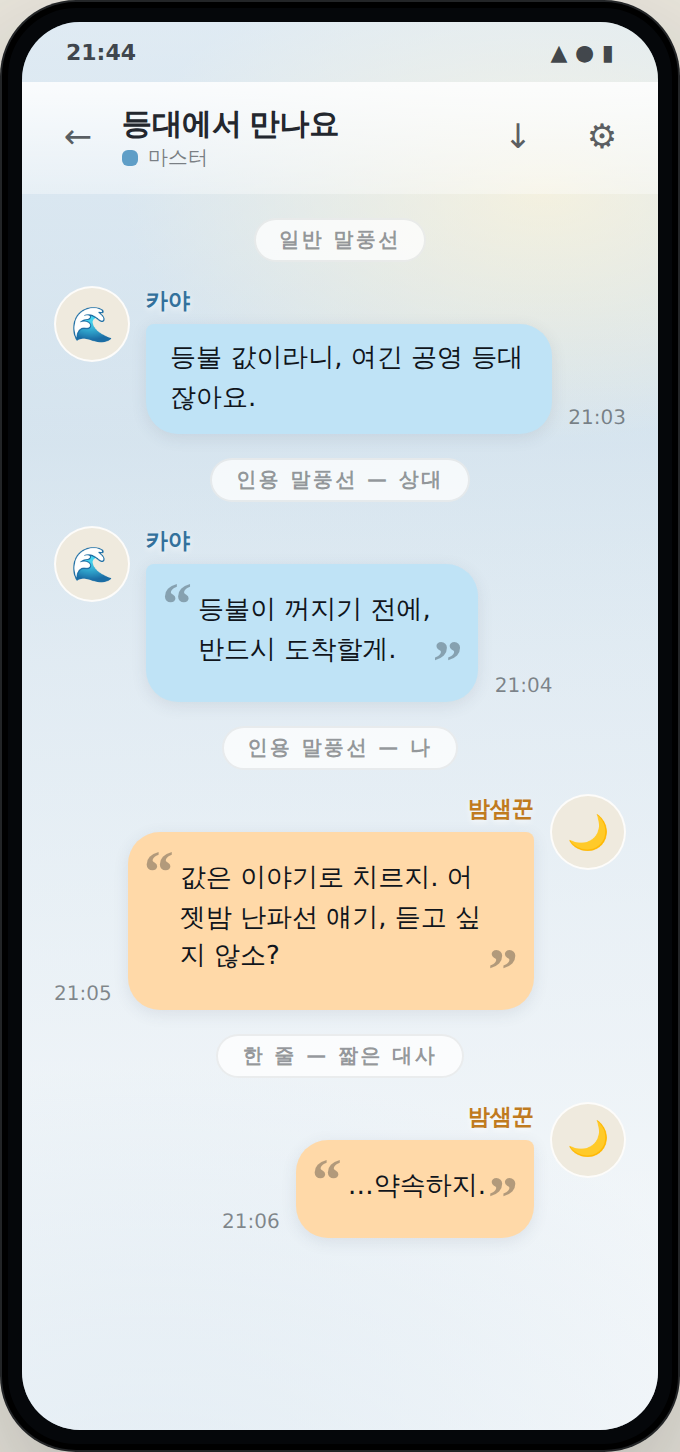
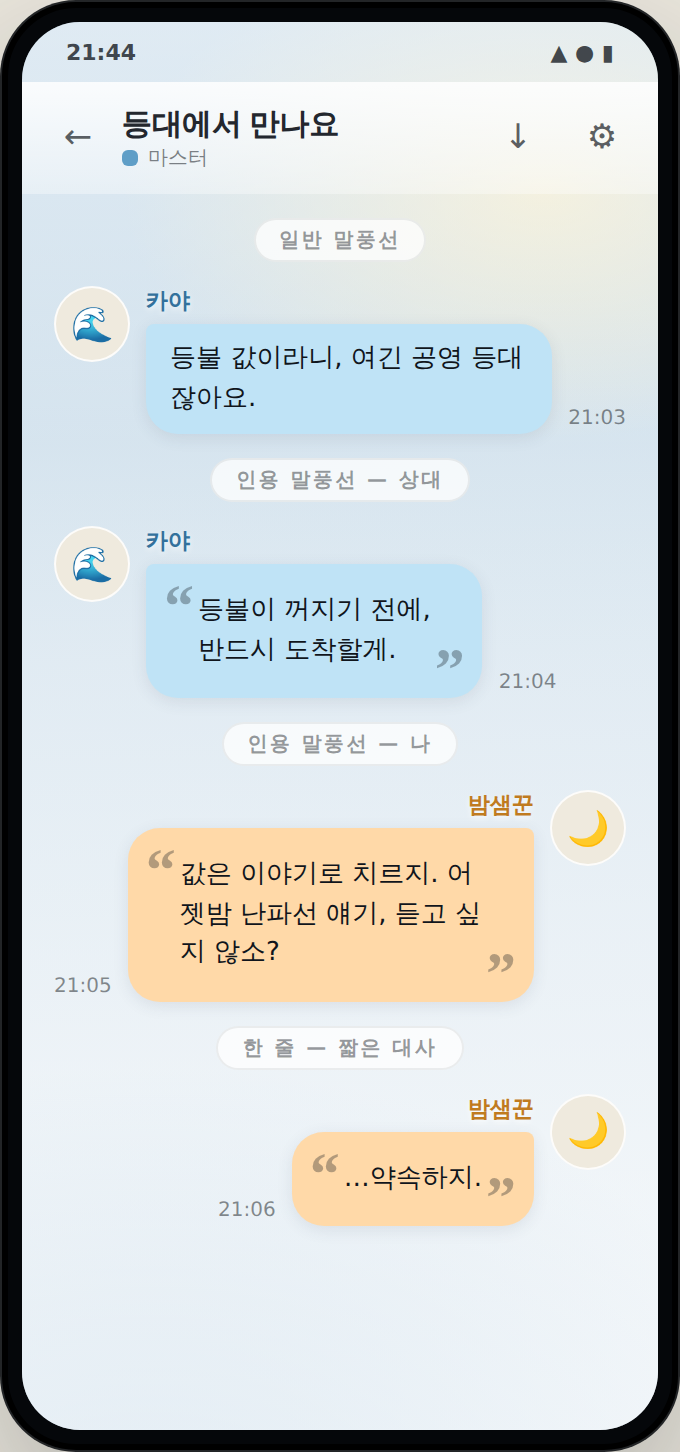
인용 말풍선 구현 — 명조 쌍따옴표 대사, 모바일·데스크톱 동일 규칙
본문 전체를 쌍따옴표(" 또는 “ ”)로 감싸 보내면 인용 말풍선으로
표시한다: 여는 “ 좌상단 · 닫는 ” 우하단에 고운 바탕 볼드 24sp,
말풍선 잉크의 32% 톤이라 캐릭터별 말풍선 색과 충돌 없음.
패딩·따옴표 오프셋은 상하좌우 대칭(14/26 · 7/9dp).

- 목업: 따옴표 상하 패딩 대칭으로 조정 (피드백 반영)
- 모바일 ChatScreen: quoteContent 판정 + QuoteMark 장식,
  잡담·GM 인용(???)은 제외. 본문은 따옴표를 벗겨 표시
- 데스크톱 Main.kt: 동일 규칙·동일 수치로 이식
- 데이터 변경 없음 — 따옴표가 본문에 그대로 저장되므로
  구버전 클라이언트에서도 일반 말풍선으로 자연 표시

Claude-Session: https://claude.ai/code/session_01GhuwLQyUHeJ9P3k24NQsCQ

diff --git a/app/src/main/java/com/pbp/app/ui/chat/ChatScreen.kt b/app/src/main/java/com/pbp/app/ui/chat/ChatScreen.kt
@@ -19,6 +19,7 @@ import androidx.compose.foundation.layout.Spacer
 import androidx.compose.foundation.layout.fillMaxSize
 import androidx.compose.foundation.layout.fillMaxWidth
 import androidx.compose.foundation.layout.height
+import androidx.compose.foundation.layout.offset
 import androidx.compose.foundation.layout.padding
 import androidx.compose.foundation.layout.size
 import androidx.compose.foundation.layout.width
@@ -576,6 +577,9 @@ private fun BubbleRow(
     // GM 인용("???")은 극중 화자이므로 항상 상대 측(왼쪽)에 표시
     val mine = !message.incoming && overrideName == null
     val body = overrideBody ?: message.body
+    // 본문 전체가 " "로 감싸이면 인용 말풍선 — 명조 쌍따옴표를 인용구처럼 크게
+    // (목업 mockup-quote-bubble). 잡담과 GM 인용(???)은 제외.
+    val quoteInner = if (!message.isOoc && overrideName == null) quoteContent(body) else null
     val bubbleColor = when {
         message.isOoc -> tokens.chatterBubble
         else -> Color(overrideBubbleColor ?: message.senderBubbleColor ?: PbpPalette.bubblePresets.first())
@@ -625,7 +629,7 @@ private fun BubbleRow(
                 } else {
                     RoundedCornerShape(topStart = 4.dp, topEnd = r, bottomEnd = r, bottomStart = r)
                 }
-                val bubbleModifier = Modifier
+                val bubbleBase = Modifier
                     .widthIn(max = 240.dp)
                     .clip(shape)
                     .background(bubbleColor)
@@ -638,28 +642,51 @@ private fun BubbleRow(
                         onClick = {},
                         onLongClick = { if (!message.incoming) onLongPress(message) },
                     )
-                    .padding(horizontal = PbpDimens.sp3, vertical = PbpDimens.sp2)
-                Box(bubbleModifier) {
-                    Row(verticalAlignment = Alignment.CenterVertically) {
-                        if (message.isOoc) {
-                            Text(
-                                "잡담",
-                                fontSize = 9.sp,
-                                color = inkColor,
-                                modifier = Modifier
-                                    .padding(end = 5.dp)
-                                    .border(1.dp, inkColor.copy(alpha = .4f), RoundedCornerShape(999.dp))
-                                    .padding(horizontal = 5.dp),
-                            )
-                        }
+                if (quoteInner != null) {
+                    // 여는 “ 좌상단 · 닫는 ” 우하단 — 오프셋은 상하좌우 대칭(7·9dp).
+                    // 닫는 따옴표는 글리프 잉크가 글자 상자 위쪽에 몰려 있어 offset으로 보정한다.
+                    Box(bubbleBase) {
+                        QuoteMark(
+                            "“", inkColor,
+                            Modifier.align(Alignment.TopStart).padding(start = 9.dp, top = 5.dp),
+                        )
+                        QuoteMark(
+                            "”", inkColor,
+                            Modifier.align(Alignment.BottomEnd).padding(end = 9.dp).offset(y = 6.dp),
+                        )
                         MarkupText(
-                            text = body,
+                            text = quoteInner,
                             fontSize = 13.sp,
                             color = inkColor,
                             rubyColor = inkColor.copy(alpha = .65f),
                             lineHeight = 20.sp,
-                            fontWeight = if (message.isOoc) FontWeight.Normal else FontWeight.Medium,
+                            fontWeight = FontWeight.Medium,
+                            modifier = Modifier.padding(horizontal = 26.dp, vertical = 14.dp),
                         )
+                    }
+                } else {
+                    Box(bubbleBase.padding(horizontal = PbpDimens.sp3, vertical = PbpDimens.sp2)) {
+                        Row(verticalAlignment = Alignment.CenterVertically) {
+                            if (message.isOoc) {
+                                Text(
+                                    "잡담",
+                                    fontSize = 9.sp,
+                                    color = inkColor,
+                                    modifier = Modifier
+                                        .padding(end = 5.dp)
+                                        .border(1.dp, inkColor.copy(alpha = .4f), RoundedCornerShape(999.dp))
+                                        .padding(horizontal = 5.dp),
+                                )
+                            }
+                            MarkupText(
+                                text = body,
+                                fontSize = 13.sp,
+                                color = inkColor,
+                                rubyColor = inkColor.copy(alpha = .65f),
+                                lineHeight = 20.sp,
+                                fontWeight = if (message.isOoc) FontWeight.Normal else FontWeight.Medium,
+                            )
+                        }
                     }
                 }
             }
@@ -681,6 +708,31 @@ private fun BubbleRow(
             }
         }
     }
+}
+
+/**
+ * 본문 전체가 쌍따옴표(" 또는 “ ”)로 감싸인 대사인지 — 감싸였으면 안쪽 내용을 돌려준다.
+ * 인용 말풍선 판정에 사용한다. 따옴표는 장식으로 다시 그려지므로 본문에서 벗긴다.
+ */
+private fun quoteContent(body: String): String? {
+    val trimmed = body.trim()
+    if (trimmed.length < 2) return null
+    if (trimmed.first() !in "\"“" || trimmed.last() !in "\"”") return null
+    return trimmed.substring(1, trimmed.length - 1).trim().ifEmpty { null }
+}
+
+/** 인용 말풍선의 장식 따옴표 — 명조 볼드, 말풍선 잉크의 옅은 톤 */
+@Composable
+private fun QuoteMark(mark: String, inkColor: Color, modifier: Modifier) {
+    Text(
+        mark,
+        fontFamily = GowunBatang,
+        fontWeight = FontWeight.Bold,
+        fontSize = 24.sp,
+        lineHeight = 24.sp,
+        color = inkColor.copy(alpha = .32f),
+        modifier = modifier,
+    )
 }
 
 /** 말풍선 곁 시간 + (수정됨) — 내 메시지는 왼쪽, 남의 메시지는 오른쪽에 붙는다 */

diff --git a/desktop/src/main/kotlin/com/pbp/desktop/Main.kt b/desktop/src/main/kotlin/com/pbp/desktop/Main.kt
@@ -12,6 +12,7 @@ import androidx.compose.foundation.layout.fillMaxHeight
 import androidx.compose.foundation.layout.fillMaxSize
 import androidx.compose.foundation.layout.fillMaxWidth
 import androidx.compose.foundation.layout.height
+import androidx.compose.foundation.layout.offset
 import androidx.compose.foundation.layout.padding
 import androidx.compose.foundation.layout.size
 import androidx.compose.foundation.layout.width
@@ -698,6 +699,8 @@ private fun BubbleRow(
 ) {
     val mine = message.authorUid == deviceId && overrideName == null
     val body = overrideBody ?: message.body
+    // 본문 전체가 " "로 감싸이면 인용 말풍선 — 모바일과 동일 규칙 (목업 mockup-quote-bubble)
+    val quoteInner = if (!message.isOoc && overrideName == null) quoteContent(body) else null
     val bubbleColor = when {
         message.isOoc -> Tokens.ChatterBubble
         else -> Color(overrideBubbleColor ?: message.senderBubbleColor ?: Tokens.bubblePresets.first())
@@ -728,24 +731,47 @@ private fun BubbleRow(
                 } else {
                     RoundedCornerShape(topStart = 4.dp, topEnd = 16.dp, bottomEnd = 16.dp, bottomStart = 16.dp)
                 }
-                Box(
-                    Modifier.widthIn(max = 420.dp).clip(shape).background(bubbleColor)
-                        .padding(horizontal = 12.dp, vertical = 8.dp)
-                ) {
-                    Row {
-                        if (message.isOoc) {
-                            Text(
-                                "잡담", fontSize = 9.sp, color = inkColor,
-                                modifier = Modifier.padding(end = 6.dp, top = 2.dp)
-                                    .border(1.dp, inkColor.copy(alpha = .4f), RoundedCornerShape(999.dp))
-                                    .padding(horizontal = 5.dp),
+                if (quoteInner != null) {
+                    // 여는 “ 좌상단 · 닫는 ” 우하단 — 오프셋은 상하좌우 대칭(7·9dp).
+                    // 닫는 따옴표는 글리프 잉크가 글자 상자 위쪽에 몰려 있어 offset으로 보정한다.
+                    Box(Modifier.widthIn(max = 420.dp).clip(shape).background(bubbleColor)) {
+                        QuoteMark(
+                            "“",
+                            inkColor,
+                            Modifier.align(Alignment.TopStart).padding(start = 9.dp, top = 5.dp),
+                        )
+                        QuoteMark(
+                            "”",
+                            inkColor,
+                            Modifier.align(Alignment.BottomEnd).padding(end = 9.dp).offset(y = 6.dp),
+                        )
+                        MarkupText(
+                            text = quoteInner, fontSize = 13.sp, color = inkColor,
+                            rubyColor = inkColor.copy(alpha = .65f), lineHeight = 20.sp,
+                            fontWeight = FontWeight.Medium,
+                            modifier = Modifier.padding(horizontal = 26.dp, vertical = 14.dp),
+                        )
+                    }
+                } else {
+                    Box(
+                        Modifier.widthIn(max = 420.dp).clip(shape).background(bubbleColor)
+                            .padding(horizontal = 12.dp, vertical = 8.dp)
+                    ) {
+                        Row {
+                            if (message.isOoc) {
+                                Text(
+                                    "잡담", fontSize = 9.sp, color = inkColor,
+                                    modifier = Modifier.padding(end = 6.dp, top = 2.dp)
+                                        .border(1.dp, inkColor.copy(alpha = .4f), RoundedCornerShape(999.dp))
+                                        .padding(horizontal = 5.dp),
+                                )
+                            }
+                            MarkupText(
+                                text = body, fontSize = 13.sp, color = inkColor,
+                                rubyColor = inkColor.copy(alpha = .65f), lineHeight = 20.sp,
+                                fontWeight = if (message.isOoc) FontWeight.Normal else FontWeight.Medium,
                             )
                         }
-                        MarkupText(
-                            text = body, fontSize = 13.sp, color = inkColor,
-                            rubyColor = inkColor.copy(alpha = .65f), lineHeight = 20.sp,
-                            fontWeight = if (message.isOoc) FontWeight.Normal else FontWeight.Medium,
-                        )
                     }
                 }
                 Row(verticalAlignment = Alignment.CenterVertically, modifier = Modifier.padding(top = 4.dp)) {
@@ -759,6 +785,31 @@ private fun BubbleRow(
             if (mine) MessageAvatar(message, room, avatarCache, firestore)
         }
     }
+}
+
+/**
+ * 본문 전체가 쌍따옴표(" 또는 “ ”)로 감싸인 대사인지 — 감싸였으면 안쪽 내용을 돌려준다.
+ * 모바일 ChatScreen의 quoteContent와 동일 규칙.
+ */
+private fun quoteContent(body: String): String? {
+    val trimmed = body.trim()
+    if (trimmed.length < 2) return null
+    if (trimmed.first() !in "\"“" || trimmed.last() !in "\"”") return null
+    return trimmed.substring(1, trimmed.length - 1).trim().ifEmpty { null }
+}
+
+/** 인용 말풍선의 장식 따옴표 — 명조 볼드, 말풍선 잉크의 옅은 톤 */
+@Composable
+private fun QuoteMark(mark: String, inkColor: Color, modifier: Modifier) {
+    Text(
+        mark,
+        fontFamily = GowunBatang,
+        fontWeight = FontWeight.Bold,
+        fontSize = 24.sp,
+        lineHeight = 24.sp,
+        color = inkColor.copy(alpha = .32f),
+        modifier = modifier,
+    )
 }
 
 @Composable

diff --git a/docs/mockup-quote-bubble.html b/docs/mockup-quote-bubble.html
@@ -52,10 +52,10 @@ body{
 .mrow.me .bubble{border-radius:var(--r-card) 4px var(--r-card) var(--r-card)}
 
 /* ── 인용 말풍선: 명조 쌍따옴표가 인용구처럼 크게 ──
-   여는 “ 는 좌상단, 닫는 ” 는 우하단. 본문은 따옴표 폭만큼 들여쓴다 */
+   여는 “ 는 좌상단, 닫는 ” 는 우하단. 패딩·따옴표 오프셋은 상하좌우 대칭 */
 .bubble.quote{
   position:relative;
-  padding:14px 24px 16px 26px;
+  padding:14px 26px;
 }
 .bubble.quote::before,
 .bubble.quote::after{
@@ -66,8 +66,8 @@ body{
   position:absolute;
   color:rgba(16,21,28,.32);   /* 말풍선 잉크의 옅은 톤 — 어떤 말풍선 색에도 얹힌다 */
 }
-.bubble.quote::before{content:"“";top:6px;left:8px}
-.bubble.quote::after{content:"”";bottom:4px;right:8px}
+.bubble.quote::before{content:"“";top:7px;left:9px}
+.bubble.quote::after{content:"”";bottom:7px;right:9px;line-height:.4}
 </style>
 </head>
 <body>
